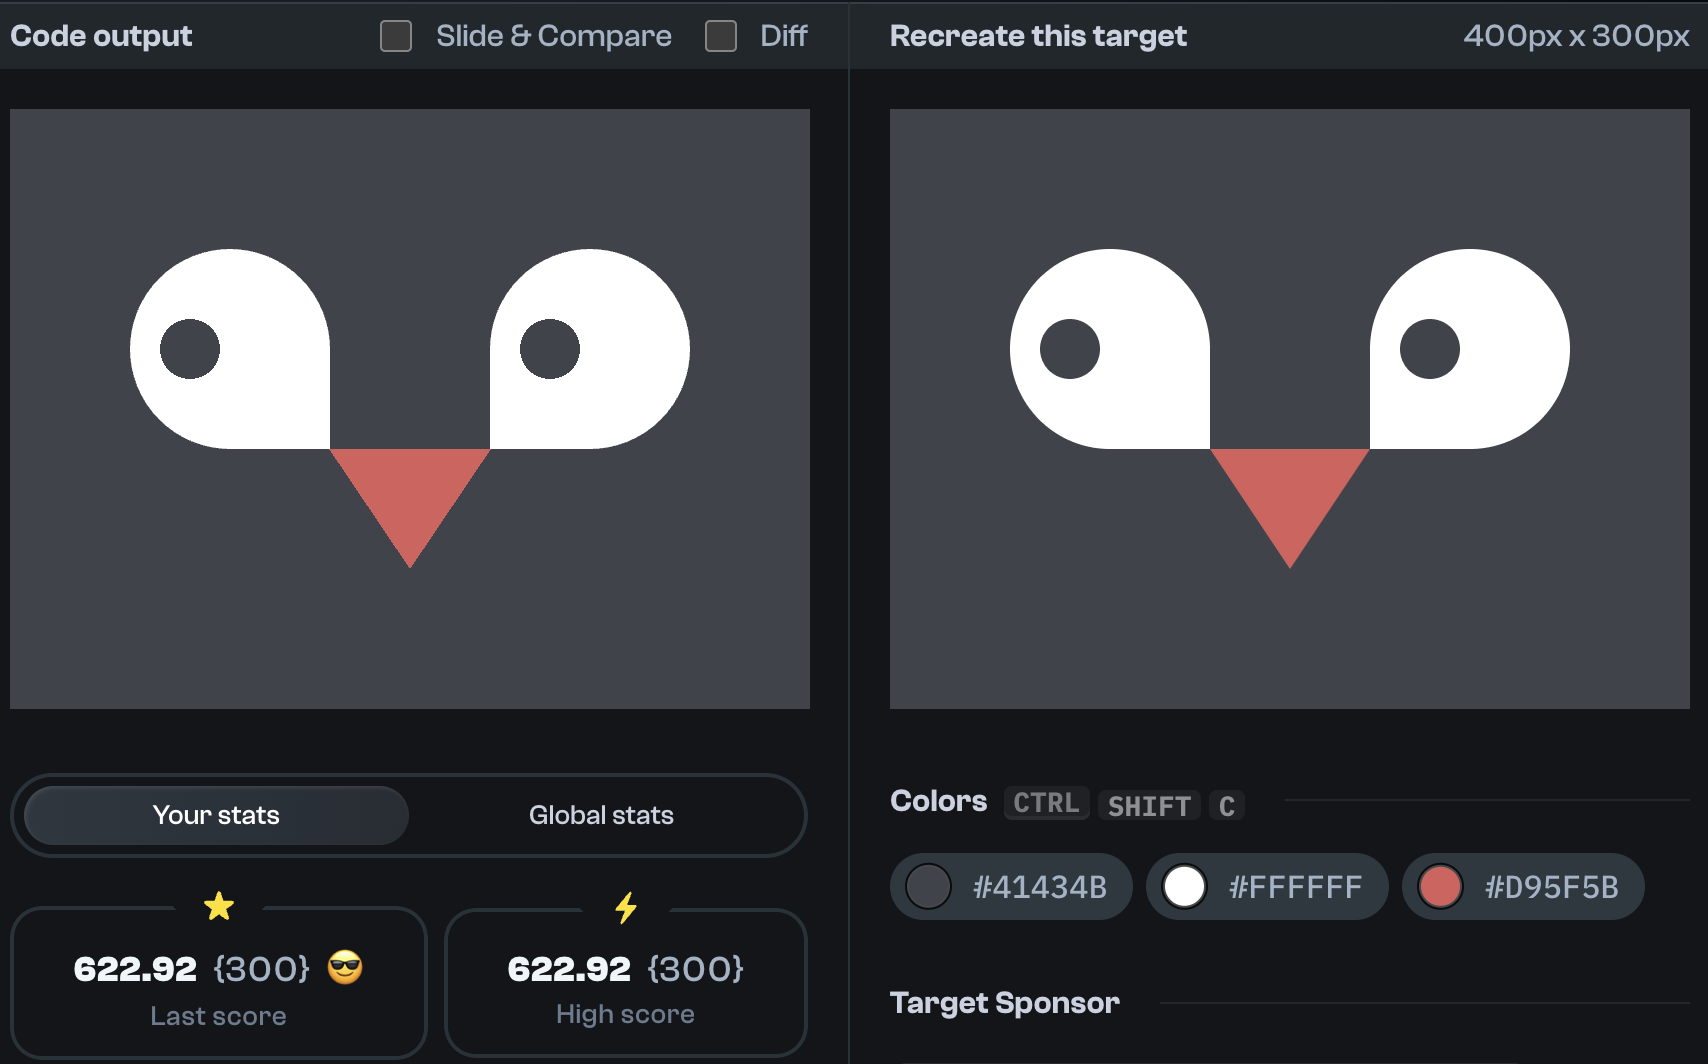
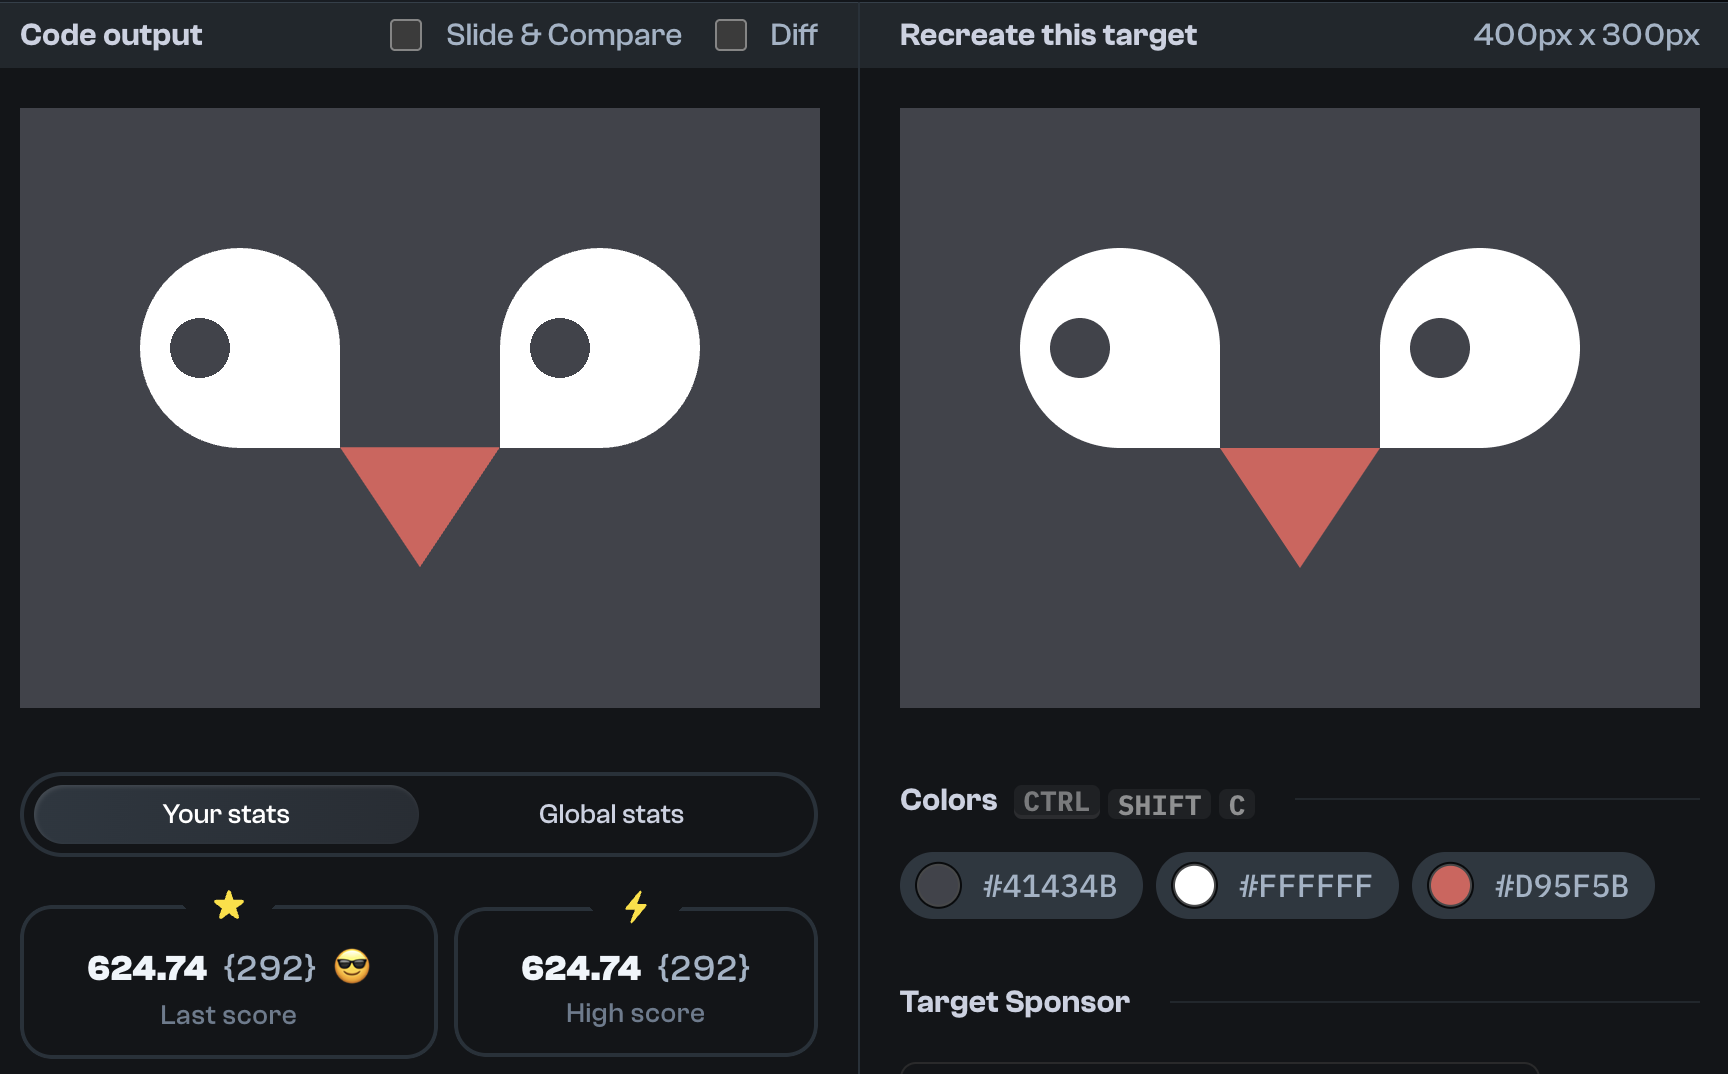
feat: CSS Battle solution for 2025-08-17

diff --git a/daily-targets/2025-08-17/solutions.html b/daily-targets/2025-08-17/solutions.html
@@ -1,3 +1,3 @@
 <!-- Version 1 -->
-<p><p a><p><style>*{background:var(--t,#41434B);margin:23.3-30 0 20;+*{display:flex}p{border-radius:6em 6em var(--h,0 6em);width:100;height:100;--t:radial-gradient(1q,#0000 5vh,#fff 0)-5vw;+p{--h:6em 0}+[a]{--t:conic-gradient(#D95F5B 34deg,#0000 0 326deg,#D95F5B 0);scale:1.2;translate:0 110%;font:0'
+<p><p a><p><style>*{background:var(--t,#41434B);margin:23.3-20 0 20;+*{display:flex}p{border-radius:6em 6em var(--h,0 6em);width:100;height:100;--t:radial-gradient(#0000 5vh,#fff 0)-5vw;+p{--h:6em 0}+[a]{translate:0 153q;scale:1 1.5;width:0;border:40px solid;border-color:#D95F5B#0000;font:0'
 </style>
